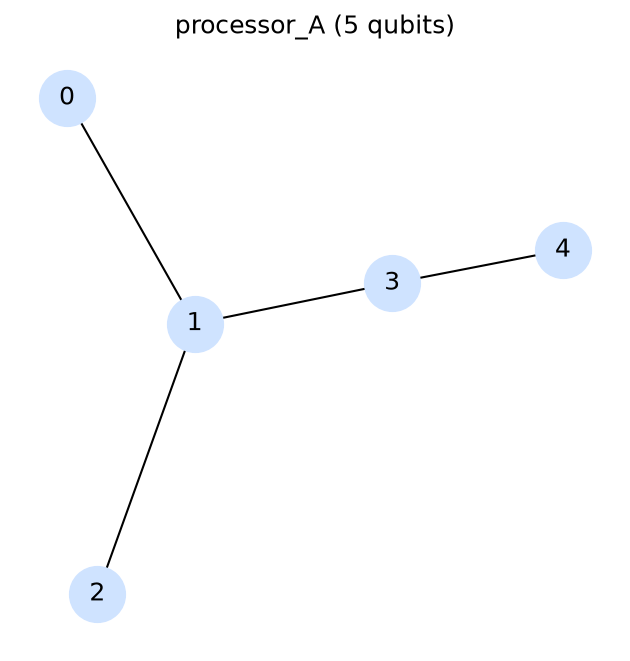
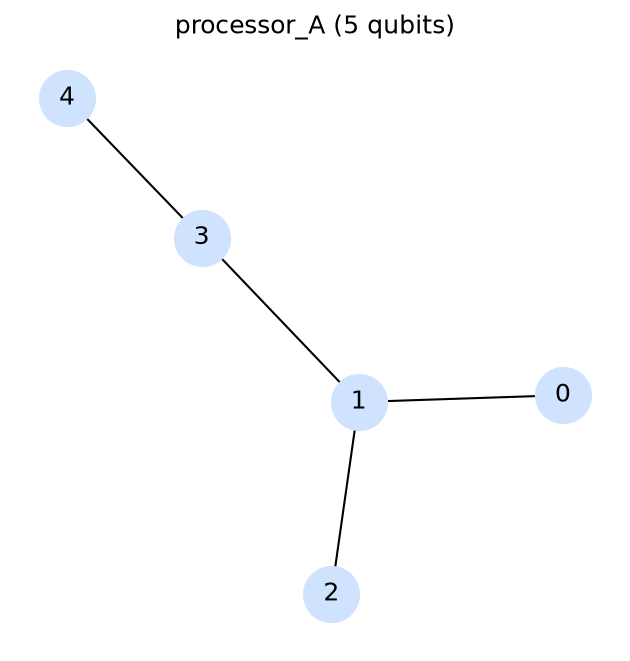
addded a multipler

diff --git a/src/problem.py b/src/problem.py
@@ -91,3 +91,25 @@ def three_bit_adder(a, b):
 
 def expected_three_bit(a, b):
     return format((a + b) % 8, "03b")
+
+
+def two_bit_multiplier(a, b):
+    """Multiplies two 2-bit numbers, answer mod 4. 6 qubits.
+    Qubits: 0=a0, 1=a1, 2=b0, 3=b1, 4=p0, 5=p1. Result is left in p (p1 p0).
+    For mod 4: p0 = a0*b0, p1 = (a0*b1) XOR (a1*b0). The a1*b1 term is dropped."""
+    qc = QuantumCircuit(6, 2)
+    if a & 1: qc.x(0)
+    if a & 2: qc.x(1)
+    if b & 1: qc.x(2)
+    if b & 2: qc.x(3)
+    # Partial products for mod 4 result
+    qc.ccx(0, 2, 4)   # p0 = a0 AND b0
+    qc.ccx(0, 3, 5)   # p1 = a0 AND b1
+    qc.ccx(1, 2, 5)   # p1 ^= a1 AND b0 (XOR via consecutive Toffolis on same target)
+    qc.measure(4, 0)
+    qc.measure(5, 1)
+    return qc
+
+
+def expected_mult(a, b):
+    return format((a * b) % 4, "02b")

diff --git a/README.md b/README.md
@@ -70,6 +70,24 @@ B's wider spread (15–45 vs 12–24) means more bad placements exist on the lar
 A maxes out at 2-bit (5 qubits). B handles 3-bit (8 qubits) but at 59 gates —
 the routing cost grows steeply with size on the heavy-hex fragment.
 
+### Noise sensitivity (2-bit adder, varying 2Q error)
+| 2Q error | A success | B success | Gap |
+|----------|-----------|-----------|-----|
+| 0.5%     | 0.900     | 0.896     | 0.4% |
+| 1%       | 0.849     | 0.840     | 0.9% |
+| 2%       | 0.760     | 0.742     | 1.8% |
+| 5%       | 0.554     | 0.526     | 2.8% |
+| 10%      | 0.371     | 0.355     | 1.6% |
+
+B's extra gates cause steeper noise degradation. The gap widens from 0.4% to 2.8%
+as noise increases from 0.5% to 5%.
+
+### Multiplier (B only, 6 qubits — does not fit on A)
+| Noisy | Depth | 2Q gates | Success rate |
+|-------|-------|----------|--------------|
+| No    | 72    | 48       | 1.000        |
+| Yes   | 72    | 48       | 0.778        |
+
 ## Files
 See the folder tree. Analysis and limitations are in `report.md`.
 

diff --git a/report.md b/report.md
@@ -54,6 +54,12 @@ the circuit is large enough that even smart placement cannot avoid long-range in
 - `results/figures/processor_A_graph.png` and `processor_B_graph.png`: visual comparison.
 - `results/figures/scaling_trend.png`: line chart showing gate growth with adder size.
 
+## Additional Experiments
+
+**Noise sensitivity:** As 2Q error increases from 0.5% to 5%, the A–B success-rate gap widens from 0.4% to 2.8%. B's extra gates cause steeper noise degradation, confirming that the routing overhead has a measurable cost beyond just gate count.
+
+**Multiplier:** A 2-bit multiplier (6 qubits, 48 2Q gates) runs on B only (does not fit on A's 5 qubits). Ideal success rate is 1.0; noisy success rate is 0.778. This extends the benchmark beyond adders to a second arithmetic operation.
+
 ## Scope and Future Work
 
 This project benchmarks two adder designs (ripple-carry and Draper QFT) on two small simulated processors. The results show that wiring affects routing cost at low optimization levels, and that this effect grows with circuit size.
